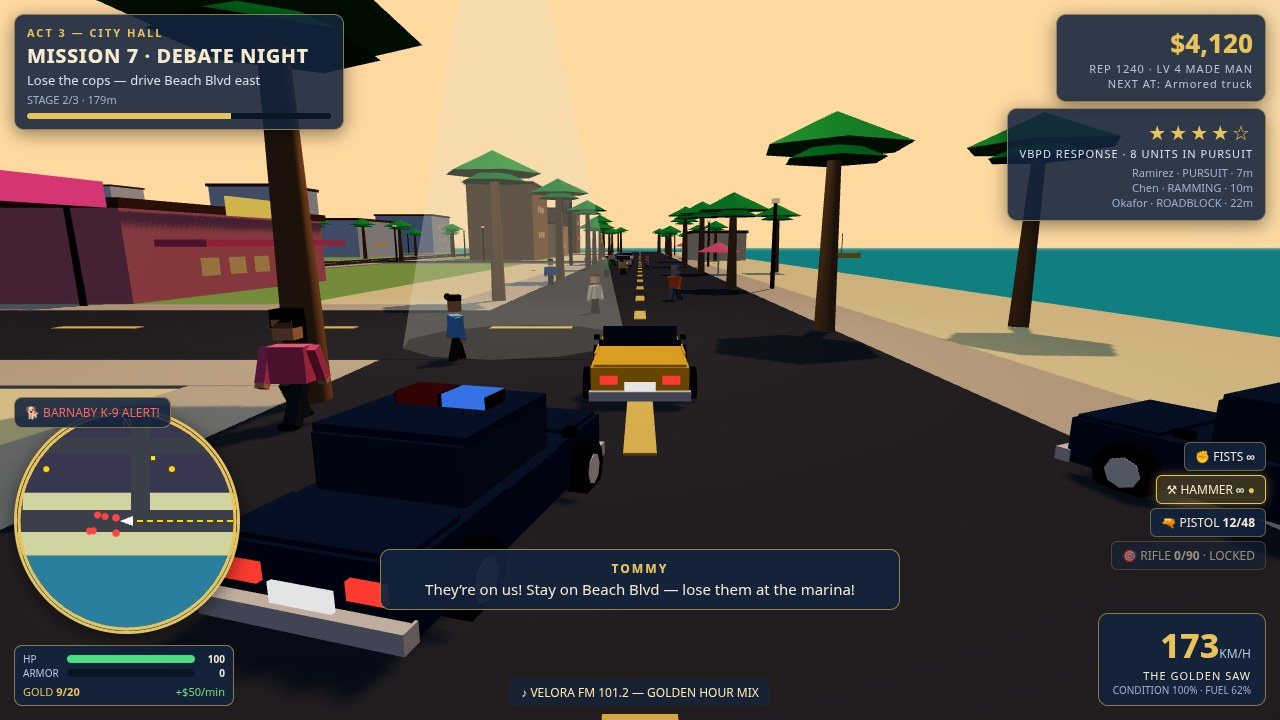
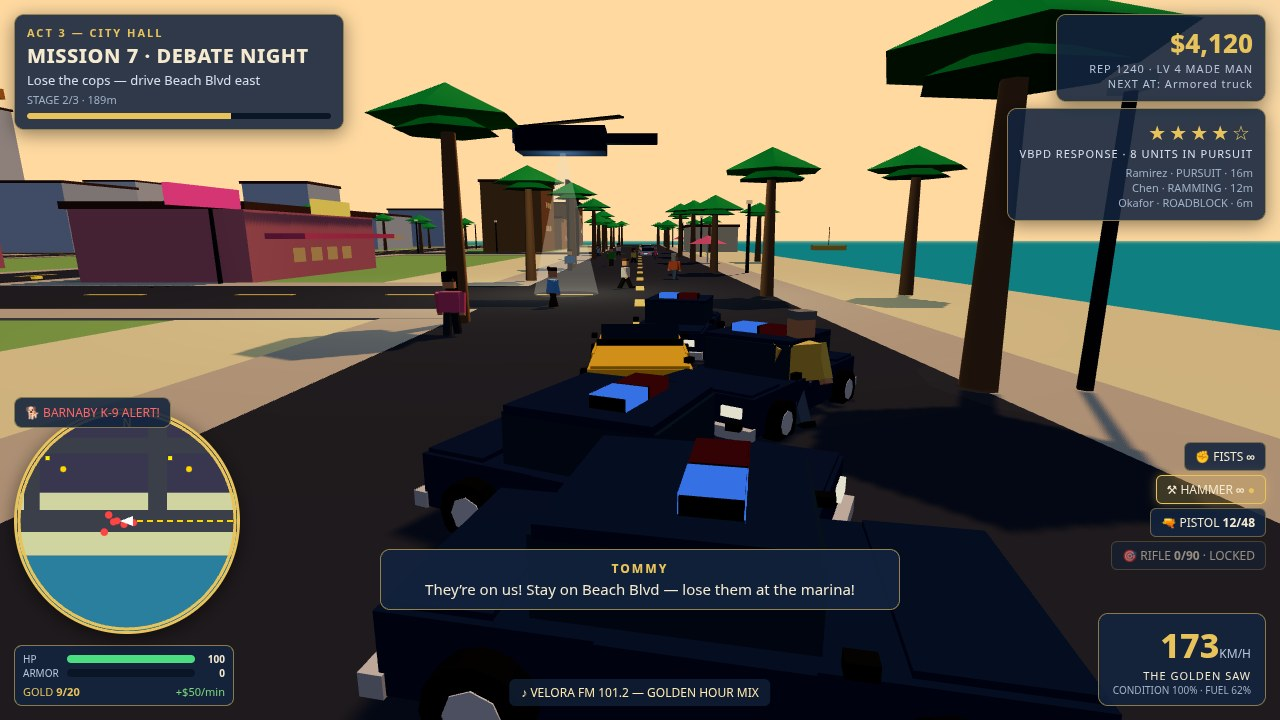
Chase shot: helicopter clearly visible in frame

diff --git a/game/src/main.js b/game/src/main.js
@@ -455,8 +455,15 @@ function applyDemo() {
       u.car.position.set(u.x, 0, u.z);
     });
     G.police.wanted = 4;
+    // helicopter: demo override so it is CLEARLY VISIBLE in the chase shot.
+    // The chase camera sits 8 m behind the Saw at y=3.2 looking down ~18 deg
+    // (62 deg FOV, frame top ~+13 deg), so the default hover (6 m ahead, 16 m
+    // high = ~+41 deg) is far above the frame — only its searchlight showed.
+    // 20 m ahead / 8 m high puts it at ~+10 deg elevation, upper-centre of
+    // the frame, rotor ~160 px: a real helicopter in the sky above the road.
+    G.police.heliDX = 20; G.police.heliY = 8; G.police.heliDZ = -4;
     G.police.heliActive = true; G.police.heli.visible = true;
-    G.police.heli.position.set(-24, 16, 124);
+    G.police.heli.position.set(-10, 8, 124);
     G.police.roadblock.forEach((car, i) => {
       car.visible = true;
       car.position.set(80 + i * 7, 0, 128);

diff --git a/game/src/police.js b/game/src/police.js
@@ -94,7 +94,9 @@ export function updatePolice(P, dt, playerPos, playerSpeed, onSpotted) {
   if (wantHeli && !P.heliActive) { P.heliActive = true; P.heli.visible = true; }
   if (!wantHeli && P.heliActive) { P.heliActive = false; P.heli.visible = false; }
   if (P.heliActive) {
-    P.heli.position.set(playerPos.x + 6, 16, playerPos.z - 4);
+    // demo override (chase demo only): P.heliDX/heliY/heliDZ set by the
+    // demo staging; otherwise the default hover (6 ahead, 16 high, -4 side)
+    P.heli.position.set(playerPos.x + (P.heliDX ?? 6), P.heliY ?? 16, playerPos.z + (P.heliDZ ?? -4));
     P.rotor.rotation.y += dt * 22;
     P.spot.intensity = 30;
   }
